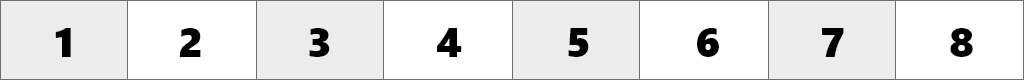
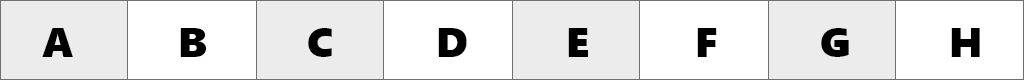
Terminando

diff --git a/mainwindow.cpp b/mainwindow.cpp
@@ -26,6 +26,8 @@ MainWindow::MainWindow(QWidget *parent)
     gameController = GameController::getInstance();
 
 
+    QObject::connect(ui->actionReiniciar, &QAction::triggered, this, &MainWindow::handleReiniciar);
+
     initLabels();
 }
 
@@ -215,7 +217,7 @@ void MainWindow::updateGameData()
         msg.exec();
 
         if(msg.clickedButton() == reiniciar){
-
+            ui->BoardImage->resetBoard();
         } else if( msg.clickedButton() == salir){
             QCoreApplication::quit();
         }
@@ -226,4 +228,10 @@ void MainWindow::updateGameData()
 void MainWindow::handleUpdateGameData()
 {
     updateGameData();
+}
+
+void MainWindow::handleReiniciar()
+{
+    gameController->reset();
+    ui->BoardImage->resetBoard();
 }

diff --git a/GameController.cpp b/GameController.cpp
@@ -41,7 +41,7 @@ void GameController::makeMove(QPoint ini, QPoint fin,QString team ,int type){
     moves++;
 
     if(type == JAQUE_MOVEMENT){
-        winner = team;
+        winner = (team == Piece::WHITE_TEAM) ? "BLANCAS": "NEGRAS";
         end = true;
     }
 
@@ -81,4 +81,16 @@ bool GameController::isEnd() const{
 
 QString GameController::getWinner() const{
     return winner;
+}
+
+void GameController::reset() {
+    turn = Piece::WHITE_TEAM;
+    record = {};
+    whitesCap = {};
+    blacksCap = {};
+    moves = 0;
+    end = false;
+    winner = "NONE";
+
+    emit updateGameData();
 }

diff --git a/Move.cpp b/Move.cpp
@@ -16,7 +16,7 @@ Move::Move(QPoint ori, QPoint des, QString team, int type)
 QString Move::asignLetterAndNumber(QPoint n)
 {
     QString position = "";
-    switch (n.y()) {
+    switch (n.x()) {
         case 0: position+="A";
         break;
         case 1: position+="B";
@@ -35,7 +35,7 @@ QString Move::asignLetterAndNumber(QPoint n)
         break;
     }
 
-    switch (n.x()) {
+    switch (n.y()) {
         case 0: position += QString::number(1);
         break;
          case 1: position += QString::number(2);

diff --git a/Board.cpp b/Board.cpp
@@ -332,3 +332,18 @@ Piece* Board::mostrarMenuPromotion(QString team)
     return newPiece;
 }
 
+void Board::resetBoard(){
+    Piece* aux;
+
+    for(int i=0; i < 8; i++){
+        for(int j=0; j < 8 ; j++){
+            aux = (Piece *) childAt(QPoint(i*75+6,j*75+6));
+            qDebug() << "Borrando pieza "<<aux;
+            if(aux != nullptr) delete aux;
+        }
+    }
+
+    boardData = BoardData::getInitialBoardData();
+    loadPiecesOnBoard();
+}
+

diff --git a/GameController.h b/GameController.h
@@ -48,6 +48,7 @@ public:
     QVector<int> getBlacksCaptured();
     bool isEnd() const;
     QString getWinner() const;
+    void reset();
 
 
     void addToCementery(int pieceType, QString team);

diff --git a/Board.h b/Board.h
@@ -34,6 +34,7 @@ public:
     ~Board();
 
     void paintEvent(QPaintEvent *event) override;
+    void resetBoard();
 private:
     Ui::Board *ui;
     QPixmap boardImage{};

diff --git a/mainwindow.h b/mainwindow.h
@@ -34,5 +34,6 @@ private:
 signals:
 public slots:
     void handleUpdateGameData();
+    void handleReiniciar();
 };
 #endif // MAINWINDOW_H
